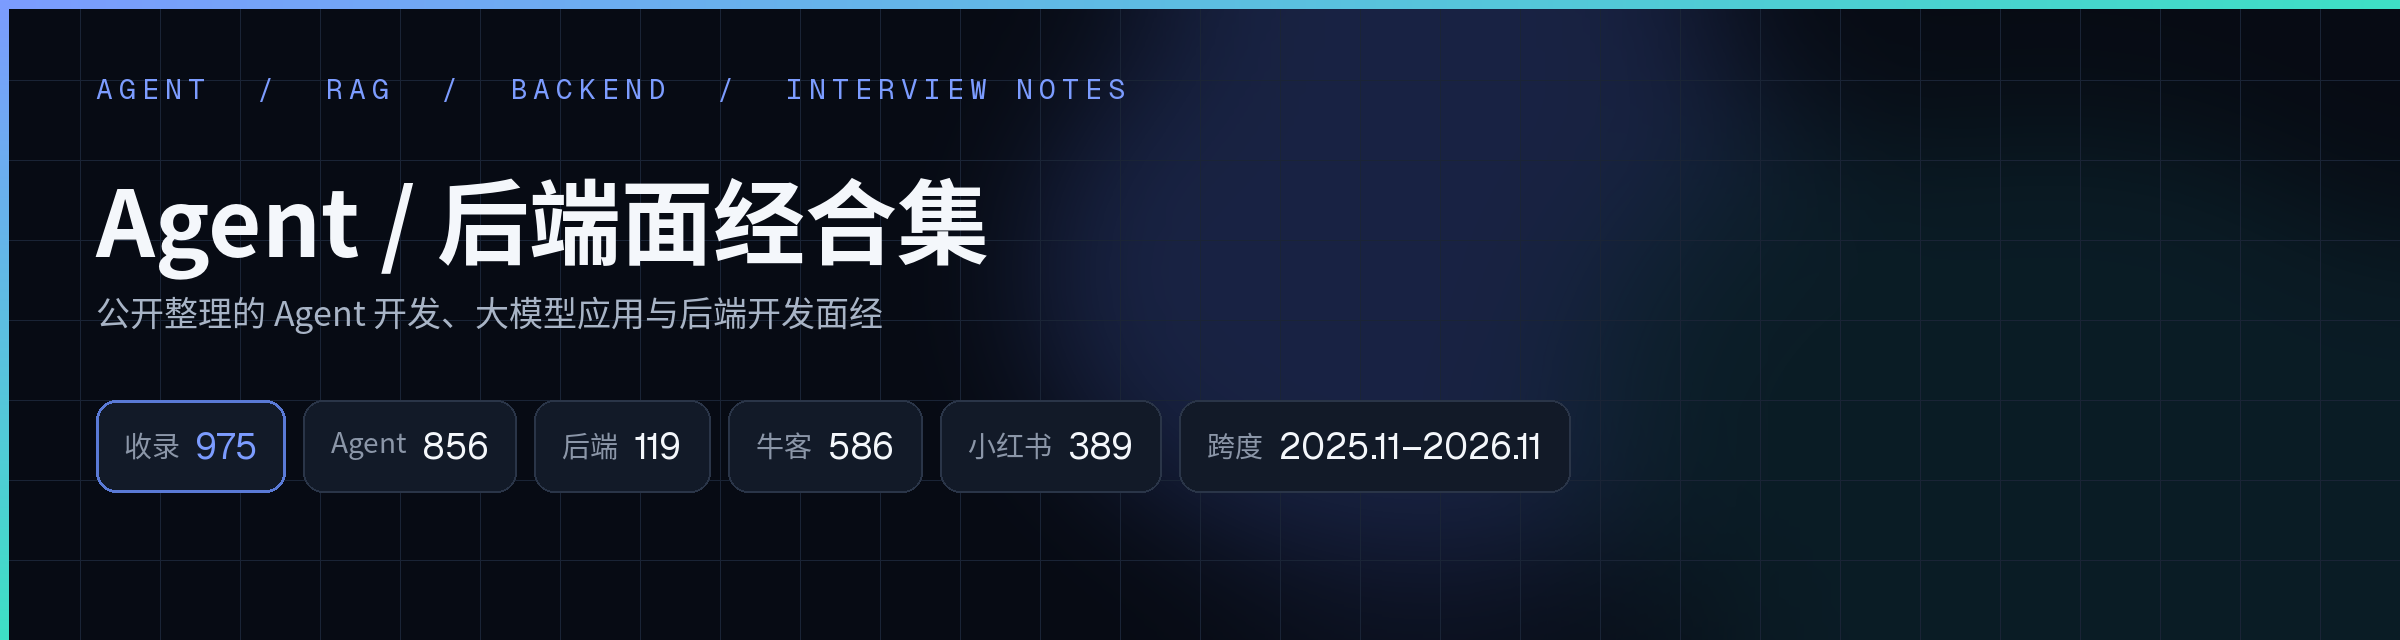
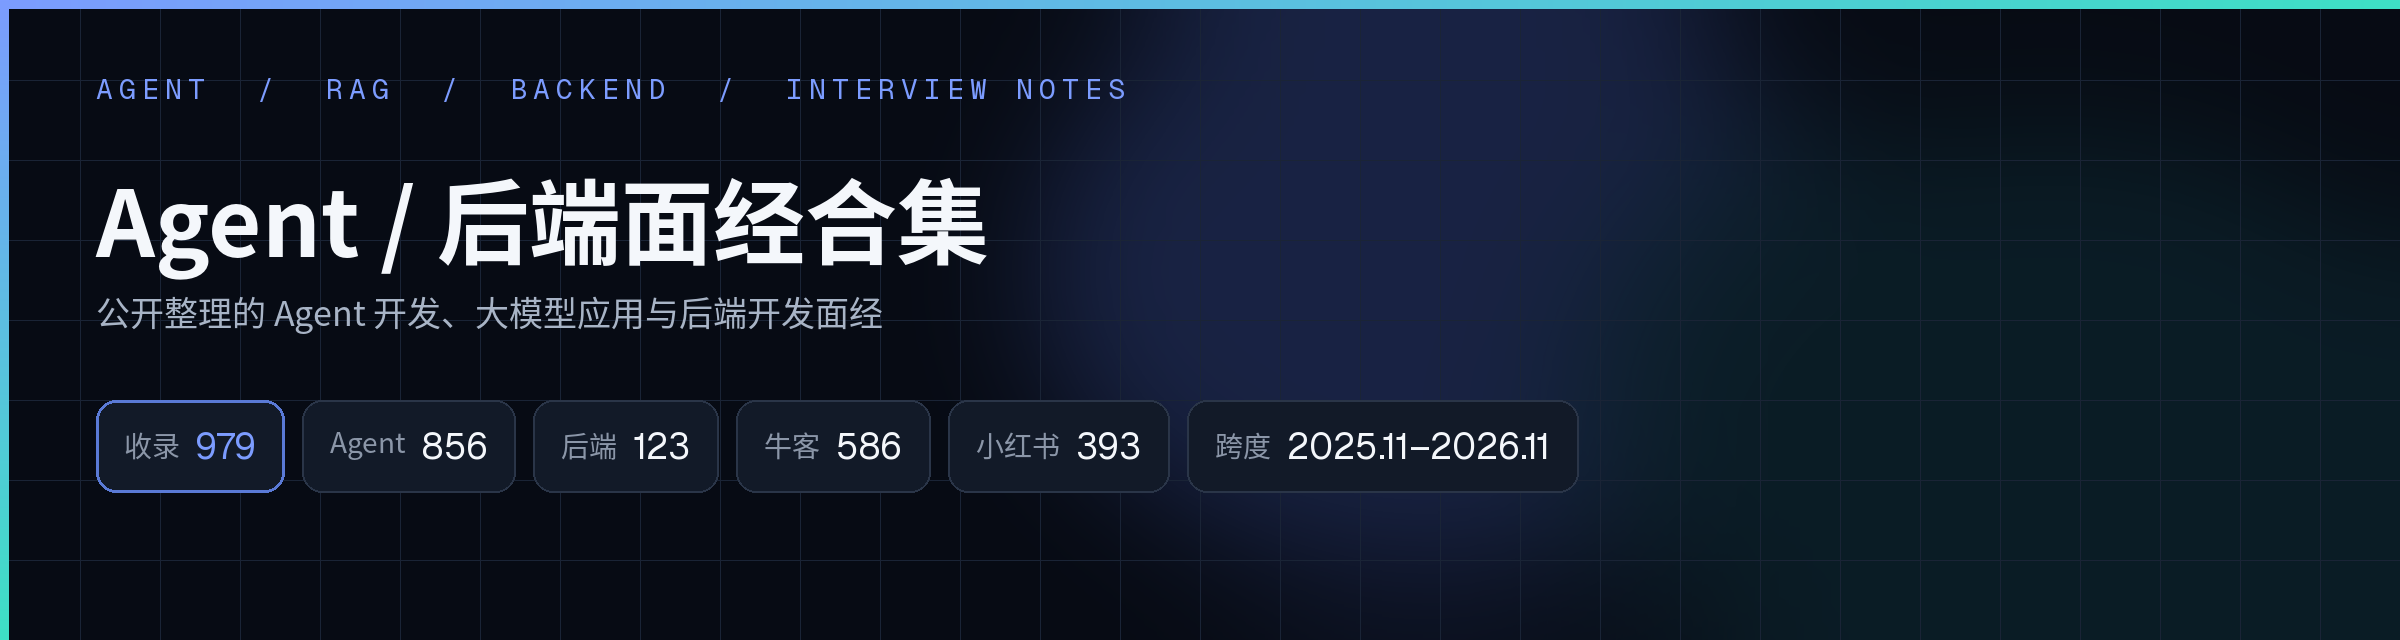
add 4 Xiaohongshu 面经 (花生酱小红书后端实习一面，Famiglistimo 超星/深信服/TCL)

Changed region(s): [[0.0938, 0.625, 0.6562, 0.75]]

diff --git a/README.md b/README.md
@@ -21,7 +21,7 @@
 
 | 收录 | Agent / 大模型应用 | 后端 | 来源 | 发帖跨度 |
 | --- | --- | --- | --- | --- |
-| 975 篇 | 856 | 119 | 牛客 586 · 小红书 389 | 2025.11–2026.11 |
+| 979 篇 | 856 | 123 | 牛客 586 · 小红书 393 | 2025.11–2026.11 |
 
 统计与 [`data/index.json`](data/index.json) 及 `agent/`、`backend/` 目录文件一致，随收录更新。本仓库整理已公开的帖子，不声称对每篇都做了独立真伪核验。
 
@@ -910,6 +910,7 @@
 | 2026-11-11 | 华测软件开发一面面经 | [文件](backend/2026-11-11-华测-软件开发-一面.md) | [原文](https://www.xiaohongshu.com/explore/6af43a4f000000002b01b1f1) |
 | 2026-11-11 | 字节跳动秋招HR面后横向挂（附部分面经） | [文件](backend/2026-11-11-字节跳动-后端开发-秋招-一面二面三面HR面.md) | [原文](https://www.xiaohongshu.com/explore/6af44338000000002b033be7) |
 | 2026-11-11 | 平安科技后端开发一面 | [文件](backend/2026-11-11-平安科技-后端开发-一面.md) | [原文](https://www.xiaohongshu.com/explore/6af3e4a6000000001f014b1d) |
+| 2026-11-10 | 20261110小红书后端一面50min | [文件](backend/2026-11-10-小红书-后端开发-实习-一面.md) | [原文](https://www.xiaohongshu.com/explore/6af2ea7f00000000090218c5) |
 | 2026-11-09 | 一面面经 | [文件](backend/2026-11-09-硕日新能-Java后端开发-校招-一面.md) | [原文](https://www.xiaohongshu.com/explore/6af1b13a000000003402525c) |
 | 2026-11-09 | 硕日新能后端开发一面面经 | [文件](backend/2026-11-09-硕日新能-后端开发-校招-一面.md) | [原文](https://www.xiaohongshu.com/explore/6af1733f000000002c01f458) |
 | 2026-11-08 | 乐牛游戏服务器端开发-- AI 面 | [文件](backend/2026-11-08-乐牛游戏-游戏服务器端开发-AI面.md) | [原文](https://www.xiaohongshu.com/explore/6af0647a000000000703b522) |
@@ -937,6 +938,8 @@
 | 2026-10-25 | 吉利后端开发一面 | [文件](backend/2026-10-25-吉利-后端开发-一面.md) | [原文](https://www.xiaohongshu.com/explore/6ade0653000000002a013998) |
 | 2026-10-25 | 数字广东后端开发岗 一面+HR | [文件](backend/2026-10-25-数字广东-后端开发岗-一面HR.md) | [原文](https://www.xiaohongshu.com/explore/6ade0907000000003301eb08) |
 | 2026-10-25 | 金融壹账通开发岗一面 | [文件](backend/2026-10-25-金融壹账通-开发岗-一面.md) | [原文](https://www.xiaohongshu.com/explore/6ade0ac5000000003103b609) |
+| 2026-10-25 | 深信服后端开发 一二面+HR | [文件](backend/2026-10-25-深信服-后端开发-一面二面HR.md) | [原文](https://www.xiaohongshu.com/explore/6ade078e0000000025006cf8) |
+| 2026-10-25 | 超星开发岗 一面+二面 | [文件](backend/2026-10-25-超星-开发岗-一面二面.md) | [原文](https://www.xiaohongshu.com/explore/6ade09e1000000002a01e708) |
 | 2026-10-24 | 值得记录的 AI 面试 | [文件](backend/2026-10-24-卓望数码-全栈开发工程师-秋招-AI面.md) | [原文](https://www.xiaohongshu.com/explore/6adcc184000000002c03ab8b) |
 | 2026-10-24 | 虾皮SZ 一面面经 | [文件](backend/2026-10-24-虾皮-一面.md) | [原文](https://www.xiaohongshu.com/explore/6adca9b5000000003300eb7c) |
 | 2026-10-23 | 10.23小红书ai小工具leader面面经 | [文件](backend/2026-10-23-小红书-AI开放小工具后端开发-实习-二面.md) | [原文](https://www.xiaohongshu.com/explore/6adb59a4000000003101db54) |
@@ -962,6 +965,7 @@
 | 2026-10-19 | 小鹏后端一面 | [文件](backend/2026-10-19-小鹏-后端-一面.md) | [原文](https://www.xiaohongshu.com/explore/6ad62b41000000002601c4a3) |
 | 2026-10-19 | 拼多多后端校招 四面 | [文件](backend/2026-10-19-拼多多-后端-校招-四面.md) | [原文](https://www.xiaohongshu.com/explore/6ad633cf0000000026039309) |
 | 2026-10-19 | 联想后端开发一面 | [文件](backend/2026-10-19-联想-后端开发-一面.md) | [原文](https://www.xiaohongshu.com/explore/6ad62da300000000310079fc) |
+| 2026-10-19 | TCL后端 一面+HR | [文件](backend/2026-10-19-TCL-后端-一面HR.md) | [原文](https://www.xiaohongshu.com/explore/6ad62a26000000003003f68d) |
 | 2026-10-17 | 拼多多服务端研发工程师一面面经 | [文件](backend/2026-10-17-拼多多-服务端研发-一面.md) | [原文](https://www.xiaohongshu.com/explore/6ad32445000000001403b346) |
 | 2026-10-17 | 滴滴国际化后端实习一面凉经 | [文件](backend/2026-10-17-滴滴国际化-后端-实习-一面.md) | [原文](https://www.xiaohongshu.com/explore/6ad2e83a000000000200ed96) |
 | 2026-10-17 | 每日互动 | 全栈开发工程师面经 | [文件](backend/2026-10-17-每日互动-全栈开发工程师-秋招.md) | [原文](https://www.xiaohongshu.com/explore/6ad305de000000001803b6d0) |

diff --git a/backend/2026-11-10-小红书-后端开发-实习-一面.md b/backend/2026-11-10-小红书-后端开发-实习-一面.md
@@ -1,0 +1,63 @@
+# 小红书后端开发实习一面
+
+> 小红书 · 后端开发 · 实习 · 一面 · 结果未注明 · 详情页可见日期为 11-10（未标年份，无「编辑于」标记）；按小红书月日格式和报告的 2026 年时间语境记为 2026-11-10，落在收集窗口 2026-08-10 至 2026-11-12。原帖标题写 20261110，报告写面试日 11-10，按 2026-11-10 记录，与发帖日相同。报告写地点为上海，时长约 50 分钟 · 作者 花生酱 · 来源：[小红书](https://www.xiaohongshu.com/explore/6af2ea7f00000000090218c5)
+
+原帖标题为《20261110小红书后端一面50min》。第七十二批因页面原发日期未核，按指示暂不收；第七十三批核到原发日期 11-10，无「编辑于」标记，按窗口内收录。招聘类型按报告记为实习。结果在已读材料里未见，不猜测。作者文末自述投错岗（Boss 上另一位 HR 说也是 Java），Agent 没准备，多为基础八股；这是作者自述，不是已核录用或淘汰结论。不与仓库中其他小红书面经合并。
+
+## 速览
+
+- **重点**：小红书后端开发实习一面。岗位按报告记为后端开发，题目大量涉及 Agent，不把岗位改成 Agent。下面只整理搜集报告里已经可见的题意摘要，不是逐字原文，也不补答案。报告写全文共 33 题，题目在 4 张图里：第七十二批已读前 3 张，列出 Q1–28 的主题；第七十三批读完第 4 张，补上 Q29–Q33。已列出的主题和问法见正文，不把 Q1–28 的主题词拆成 28 道完整独立题面，也不声称 33 题均已逐条写出。本帖只见一面这一场，不拆文件，也不另编未见轮次。
+- **难度**：小红书后端开发实习一面。发帖日期依据：第七十三批核到页面原发日期 11-10，未标年份，无「编辑于」标记，按小红书月日格式和报告 2026 语境记为 2026-11-10。标题写 20261110，报告写面试日 11-10，按 2026-11-10 记录。
+- **题量**：仅按报告可见摘要整理，不把未见细节补成题目，也不声称全题已核。
+
+## 面经正文
+
+以下只整理搜集报告中已经看到的题意，不是逐字原文，也不补答案。只写这一场一面，不拆、不与其他小红书篇合并。第 4 张图已读完，不再标局部。
+
+### 一面
+
+报告写全文共 33 题，题目在 4 张图里。第七十二批已读前 3 张，整理到 Q1–28 的题意摘要；第七十三批读完第 4 张，补上 Q29–Q33。下面按已列出的主题整理，不把 Q1–28 的主题词拆成 28 道完整独立题面，也不声称 33 题均已逐条写出。
+
+QPS、Redis、Kafka，以及数据一致性。报告未把这几项拆成更细的题面，这里不补。
+
+Agent 项目里的 DAG Orchestrator。
+
+Agent 之间如何通信、如何协作。
+
+Agent 和 workflow 有什么区别。
+
+其他 Agent 框架。报告未展开具体框架名，这里不补。
+
+一轮 loop 里有哪些环节。
+
+tool 或 MCP 过多时，如何优化。
+
+上下文满了怎么处理，以及压缩（有损 / 无损）。
+
+持久化存储与召回。
+
+case memory。
+
+embedding 分片。
+
+Agent 之间发生冲突时如何处理，以及人机确认。
+
+vibe coding。
+
+评测。第七十二批只记到这一主题；更细的问法见下面第 4 张图里的 Q29、Q30。
+
+Q29：怎么看待评测、它解决什么问题、如何保证效果可以算 ok。
+
+Q30：用例设计基于什么规则或思路。报告提到 138 条，未展开这 138 条的具体内容，这里不补。
+
+Q31：实习里最难的点。报告写作者提到 404 网关问题，未展开排查细节，这里不补。
+
+Q32：怎么发现原因、怎么查调用链。
+
+Q33：反问。报告写反问以 Agent 为主，未展开具体问题，这里不补。
+
+以上只保留报告已列出的题意，不补实现细节或作答。已读材料未见最终录用或淘汰结论，结果未注明。作者文末自述投错岗、Agent 没准备、多为基础八股，这是作者自述，不当成已核结果。
+
+---
+
+收录于 2026-11-25 · 本文为依据搜集报告可见摘要的整理，非正式原文转载。版权归原作者所有，如有侵权请提 Issue 删除。

diff --git a/backend/2026-10-25-超星-开发岗-一面二面.md b/backend/2026-10-25-超星-开发岗-一面二面.md
@@ -1,0 +1,61 @@
+# 超星开发岗一面和二面
+
+> 超星 · 开发岗 · 招聘类型未注明 · 一面+二面 · 结果未注明 · 详情页可见日期为 10-25（未标年份，无「编辑于」标记）；按小红书月日格式和报告的 2026 年时间语境记为 2026-10-25，落在收集窗口 2026-08-10 至 2026-11-12 · 作者 Famiglistimo · 来源：[小红书](https://www.xiaohongshu.com/explore/6ade09e1000000002a01e708)
+
+原帖按搜集报告记为《超星开发岗（一+二面）》。同一原帖含一面和二面，整理在同一篇里，不拆文件。公司按报告记为超星，不扩写。岗位按报告记为开发岗，不改写成后端。招聘类型和结果在已读材料里未见，不猜测。本篇为第七十三批补读，不与同作者已收篇合并。
+
+## 速览
+
+- **重点**：超星开发岗一面和二面。岗位按报告记为开发岗。下面只整理搜集报告里已经可见的题意摘要，不是逐字原文，也不补答案。一面已列出题意包括：接口和抽象类及构造函数；final / finally；try-catch-return 的顺序；分页 LIMIT；AI 项目；接口鉴权；Token 过期，以及改密后旧 Token 如何失效。二面报告写共 28 题，已列出题意包括：智能分析项目；大模型接入规范；Token 消耗评估；并发评估；String / StringBuffer；联合索引；批量导入去重；防超卖；乐观锁和悲观锁；AI 辅助开发问题。未列出的不补成题目，也不声称 28 题均已逐条核完。报告称该作者各帖正文另有「时间」行，概括为面试月（2025.10–2026.06 这一范围）。各帖具体写法未逐条给出，这里不推断、不补写具体面试日，也不把正文「时间」行当成发帖日。 项目名按报告写为 AI 项目、智能分析项目，这里不还原具体名称。本帖一面和二面写在同一篇，不拆文件，也不另编未见轮次。
+- **难度**：超星开发岗一面和二面。发帖日期依据：详情页可见 10-25，未标年份，无「编辑于」标记，按小红书月日格式和报告 2026 语境记为 2026-10-25。
+- **题量**：仅按报告可见摘要整理，不把未见细节补成题目，也不声称全题已核。
+
+## 面经正文
+
+以下只整理搜集报告中已经看到的题意，不是逐字原文，也不补答案。一面和二面写在同一篇里，不拆。正文「时间」行不推断为具体面试日。
+
+### 一面
+
+接口和抽象类有什么区别，以及构造函数相关问题。报告未展开更细题面，这里不补。
+
+final、finally。
+
+try-catch-return 的顺序。
+
+分页 LIMIT。
+
+AI 项目。报告未展开项目细节，项目名不还原，这里不补。
+
+接口鉴权。
+
+Token 过期，以及改密之后旧 Token 如何失效。
+
+### 二面
+
+报告写二面共 28 题。下面只整理已列出的题意，不把未写出的补成题目，也不声称 28 题均已逐条核完。
+
+智能分析项目。报告未展开项目细节，项目名不还原，这里不补。
+
+大模型接入规范。
+
+Token 消耗如何评估。
+
+并发如何评估。
+
+String 和 StringBuffer。
+
+联合索引。
+
+批量导入如何去重。
+
+如何防超卖。
+
+乐观锁和悲观锁。
+
+AI 辅助开发的问题。报告未展开具体问法，这里不补。
+
+以上只保留报告已列出的题意，不补实现细节或作答。已读材料未见最终录用或淘汰结论，结果未注明。
+
+---
+
+收录于 2026-11-25 · 本文为依据搜集报告可见摘要的整理，非正式原文转载。版权归原作者所有，如有侵权请提 Issue 删除。

diff --git a/backend/2026-10-25-深信服-后端开发-一面二面HR.md b/backend/2026-10-25-深信服-后端开发-一面二面HR.md
@@ -1,0 +1,43 @@
+# 深信服后端开发一面、二面和 HR 面
+
+> 深信服 · 后端开发 · 招聘类型未注明 · 一面+二面+HR · 结果未注明 · 详情页可见日期为 10-25（未标年份，无「编辑于」标记）；按小红书月日格式和报告的 2026 年时间语境记为 2026-10-25，落在收集窗口 2026-08-10 至 2026-11-12 · 作者 Famiglistimo · 来源：[小红书](https://www.xiaohongshu.com/explore/6ade078e0000000025006cf8)
+
+原帖按搜集报告记为《深信服后端开发（一二面+HR）》。同一原帖含一面、二面和 HR，整理在同一篇里，不拆文件。招聘类型和结果在已读材料里未见，不猜测。第七十二批当时未读正文，本篇为第七十三批补读。不与其他作者或仓库中其他深信服篇合并。
+
+## 速览
+
+- **重点**：深信服后端开发一面、二面和 HR 面。岗位按报告记为后端开发。下面只整理搜集报告里已经可见的题意摘要，不是逐字原文，也不补答案。已列出的技术题意包括：缓存优化；批量导入；AI 推荐模块与意图识别；多轮对话的上下文窗口与长期偏好；提示词与工程化约束。报告写二面多为综合素质题，但未展开具体问题；HR 面已提及但未展开题意，这里都不补。报告没有把已列技术题逐条标到某一轮，除二面、HR 的上述说明外，不编造其余题目的轮次归属。报告称该作者各帖正文另有「时间」行，概括为面试月（2025.10–2026.06 这一范围）。各帖具体写法未逐条给出，这里不推断、不补写具体面试日，也不把正文「时间」行当成发帖日。 本帖一面、二面和 HR 写在同一篇，不拆文件，也不另编未见轮次。
+- **难度**：深信服后端开发一面、二面和 HR 面。发帖日期依据：详情页可见 10-25，未标年份，无「编辑于」标记，按小红书月日格式和报告 2026 语境记为 2026-10-25。
+- **题量**：仅按报告可见摘要整理，不把未见细节补成题目，也不声称全题已核。
+
+## 面经正文
+
+以下只整理搜集报告中已经看到的题意，不是逐字原文，也不补答案。一面、二面和 HR 写在同一篇里，不拆。正文「时间」行不推断为具体面试日。
+
+### 一面与已列技术题意（报告未把这些题逐条标到某一轮）
+
+已读材料只给出一组技术题意，并另外说明二面多为综合素质题、另有 HR 面。下面按已列出的技术题意整理，不把它们擅自全部算成一面或二面。
+
+缓存优化。
+
+批量导入。
+
+AI 推荐模块，以及意图识别。
+
+多轮对话的上下文窗口，以及长期偏好。
+
+提示词，以及工程化约束。
+
+### 二面
+
+报告写二面多为综合素质题，但未展开具体问题，这里不补。
+
+### HR 面
+
+报告提及有 HR 面，但未展开具体问题，这里不补。
+
+以上只保留报告已列出的题意，不补实现细节或作答。已读材料未见最终录用或淘汰结论，结果未注明。
+
+---
+
+收录于 2026-11-25 · 本文为依据搜集报告可见摘要的整理，非正式原文转载。版权归原作者所有，如有侵权请提 Issue 删除。

diff --git a/backend/2026-10-19-TCL-后端-一面HR.md b/backend/2026-10-19-TCL-后端-一面HR.md
@@ -1,0 +1,53 @@
+# TCL 后端一面和 HR 面
+
+> TCL · 后端 · 招聘类型未注明 · 一面+HR · 结果未注明 · 详情页可见日期为 10-19（未标年份，无「编辑于」标记）；按小红书月日格式和报告的 2026 年时间语境记为 2026-10-19，落在收集窗口 2026-08-10 至 2026-11-12 · 作者 Famiglistimo · 来源：[小红书](https://www.xiaohongshu.com/explore/6ad62a26000000003003f68d)
+
+原帖按搜集报告记为《TCL 后端（一面+HR）》。同一原帖含一面和 HR，整理在同一篇里，不拆文件。招聘类型和结果在已读材料里未见，不猜测。本篇为第七十三批补读，不与仓库中其他 TCL 篇合并。
+
+## 速览
+
+- **重点**：TCL 后端一面和 HR 面。岗位按报告记为后端。下面只整理搜集报告里已经可见的题意摘要，不是逐字原文，也不补答案。一面已列出题意包括：Spring 和 Boot 的区别；Redis 和 MySQL 的区别；多程序运行原理；锁的类型；单例、注入对应哪种模式；设计模式的使用场景；每秒上万请求的系统设计；ACID；执行计划；对 AI 的了解；信息整理、任务不明确时如何沟通、以及紧急任务。HR 已列出题意包括：职责、挑战、求职进展。报告称该作者各帖正文另有「时间」行，概括为面试月（2025.10–2026.06 这一范围）。各帖具体写法未逐条给出，这里不推断、不补写具体面试日，也不把正文「时间」行当成发帖日。 本帖一面和 HR 写在同一篇，不拆文件，也不另编未见轮次。
+- **难度**：TCL 后端一面和 HR 面。发帖日期依据：详情页可见 10-19，未标年份，无「编辑于」标记，按小红书月日格式和报告 2026 语境记为 2026-10-19。
+- **题量**：仅按报告可见摘要整理，不把未见细节补成题目，也不声称全题已核。
+
+## 面经正文
+
+以下只整理搜集报告中已经看到的题意，不是逐字原文，也不补答案。一面和 HR 写在同一篇里，不拆。正文「时间」行不推断为具体面试日。
+
+### 一面
+
+Spring 和 Spring Boot 有什么区别。
+
+Redis 和 MySQL 有什么区别。
+
+多程序运行的原理。报告未展开更细题面，这里不补。
+
+锁的类型。
+
+单例、注入对应哪种模式。
+
+设计模式的使用场景。
+
+每秒上万请求的系统设计。
+
+ACID。
+
+执行计划。
+
+对 AI 的了解。报告未展开具体问法，这里不补。
+
+信息如何整理；任务不明确时怎么沟通；以及紧急任务。报告未展开更细题面，这里不补。
+
+### HR 面
+
+职责。
+
+挑战。
+
+求职进展。
+
+以上只保留报告已列出的题意，不补实现细节或作答。已读材料未见最终录用或淘汰结论，结果未注明。
+
+---
+
+收录于 2026-11-25 · 本文为依据搜集报告可见摘要的整理，非正式原文转载。版权归原作者所有，如有侵权请提 Issue 删除。
